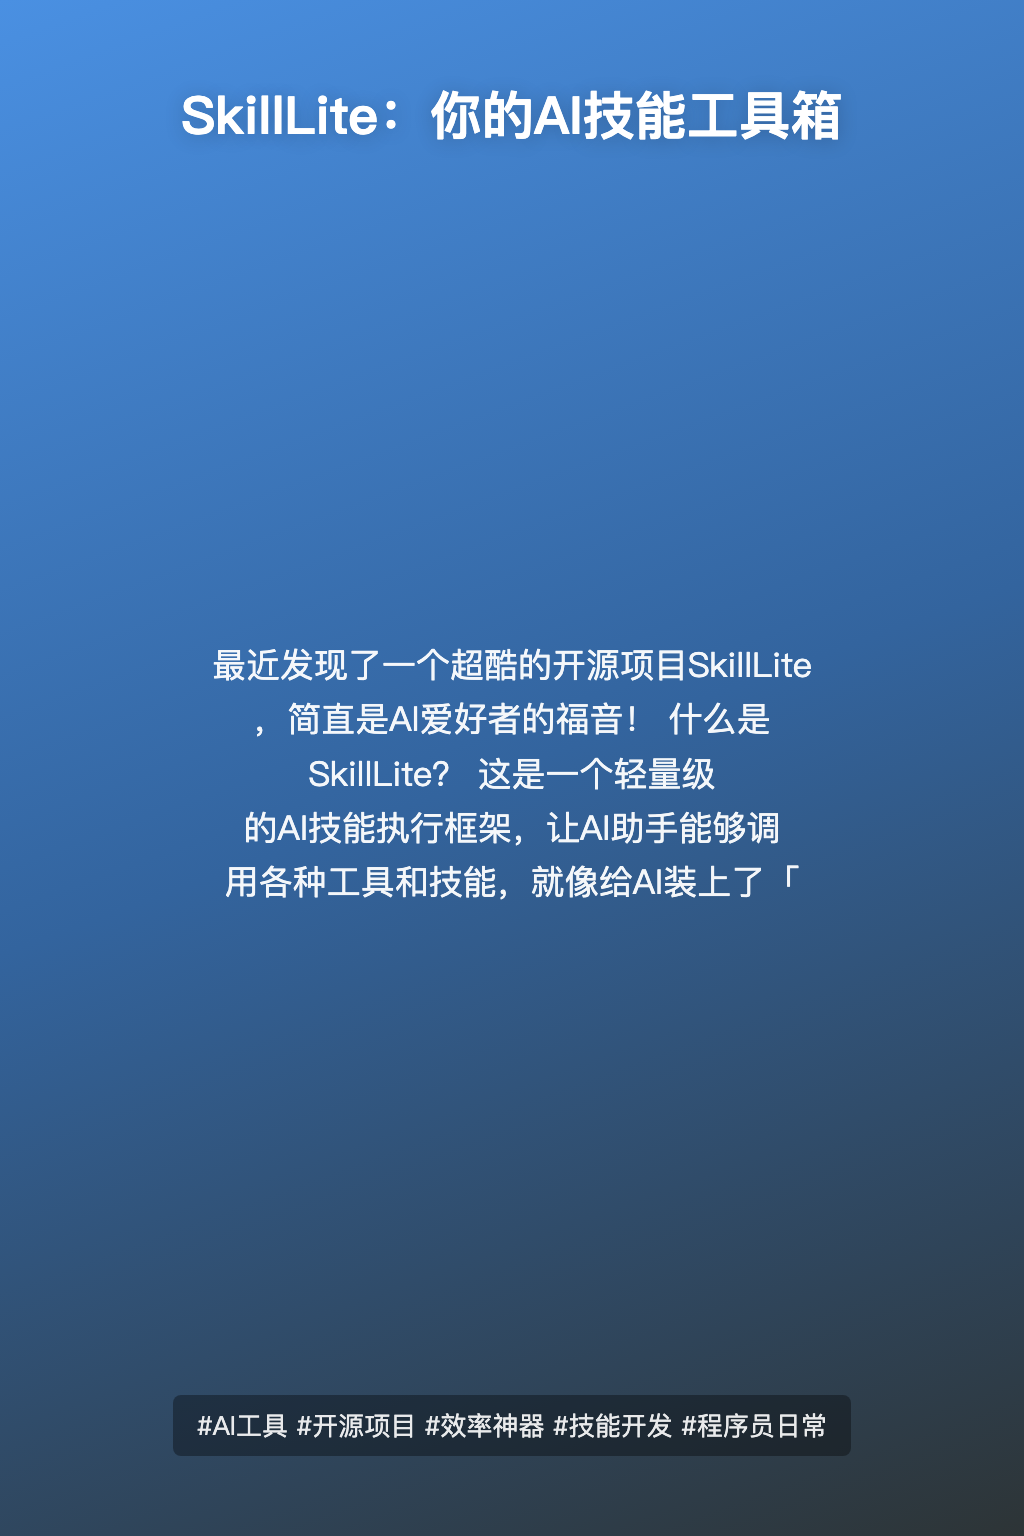
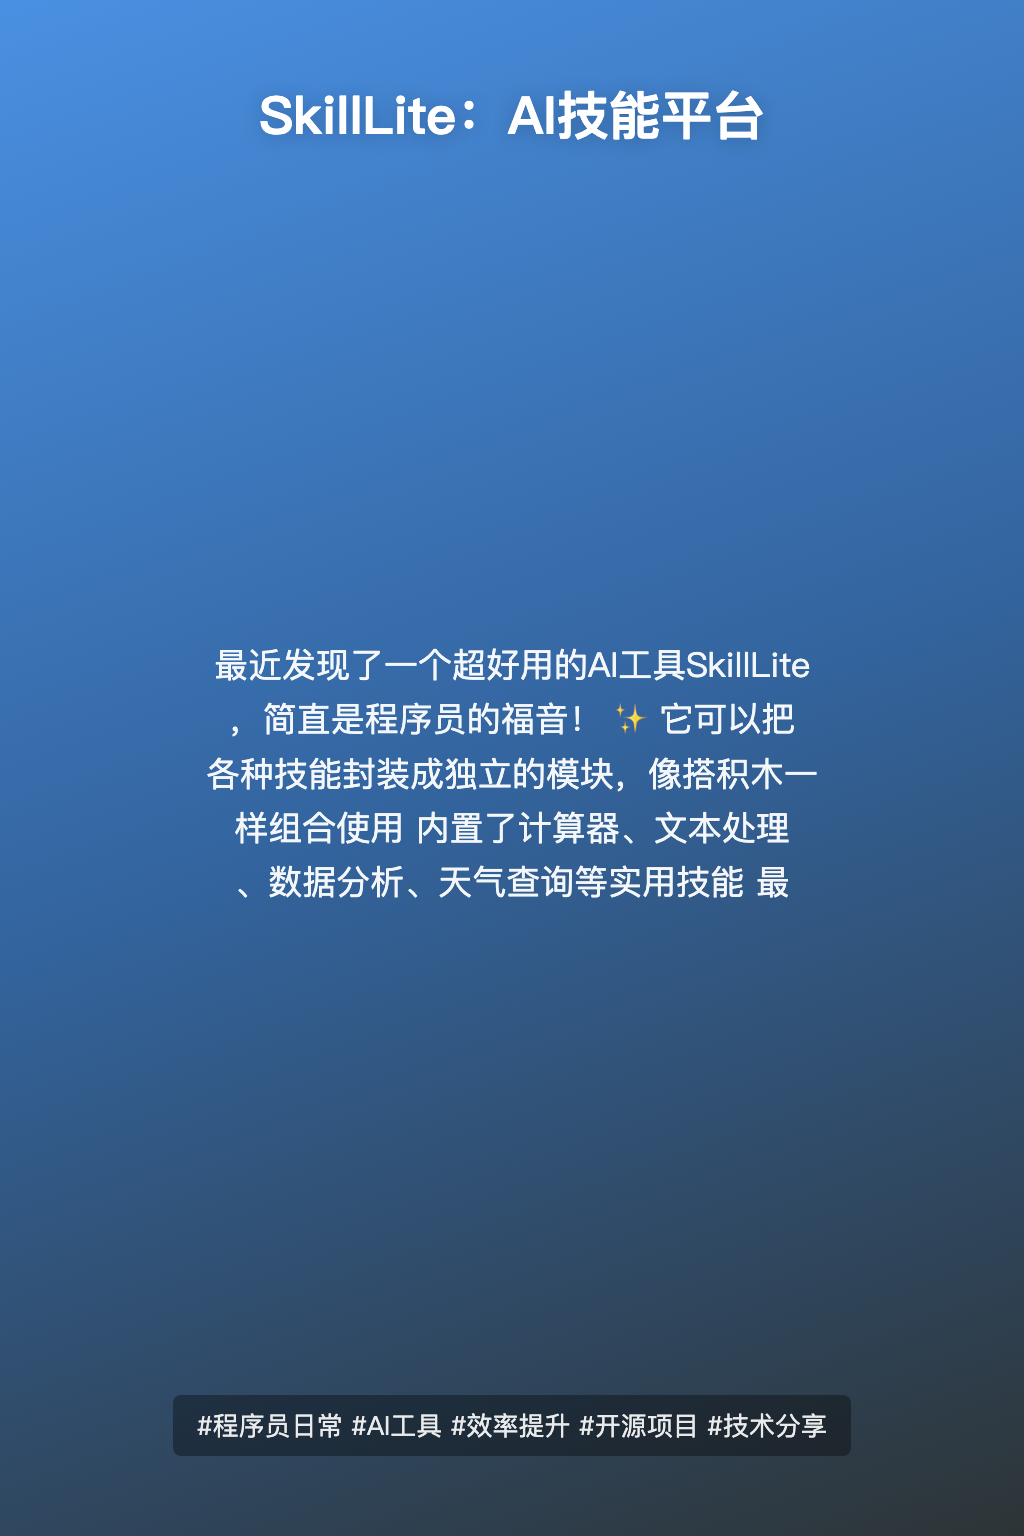
fix: Update imports in env_utils.py and init_deps.py for isolation module
- Changed imports in `env_utils.py` and `init_deps.py` to reference the new `isolation` module, improving code organization and clarity.
- Updated `xiaohongshu_thumbnail.png` to align with the latest skill requirements.

Changed region(s): [[0.1875, 0.4062, 0.7812, 0.5938], [0.1562, 0.0625, 0.8438, 0.0938], [0.2188, 0.9062, 0.8125, 0.9375]]

diff --git a/skilllite-sdk/skilllite/isolation/builder.py b/skilllite-sdk/skilllite/isolation/builder.py
@@ -1,0 +1,94 @@
+"""
+Environment builder for skill dependency isolation.
+
+Creates Python venvs and Node.js envs with package installation.
+Mirrors skillbox/src/env/builder.rs.
+"""
+
+import os
+import shutil
+import subprocess
+import sys
+from pathlib import Path
+from typing import List
+
+
+def ensure_python_env(env_path: Path, packages: List[str]) -> None:
+    """Create a Python venv and install *packages* into it."""
+    marker = env_path / ".agentskill_complete"
+    if env_path.exists() and marker.exists():
+        # Env exists, only check if playwright needs chromium
+        if "playwright" in packages:
+            ensure_playwright_chromium(env_path)
+        return  # already done
+
+    # Remove incomplete env
+    if env_path.exists():
+        shutil.rmtree(env_path)
+
+    # Create venv
+    result = subprocess.run(
+        [sys.executable, "-m", "venv", str(env_path)],
+        capture_output=True, text=True,
+    )
+    if result.returncode != 0:
+        raise RuntimeError(f"Failed to create venv: {result.stderr}")
+
+    # Install packages
+    if packages:
+        pip = env_path / ("Scripts" if os.name == "nt" else "bin") / "pip"
+        result = subprocess.run(
+            [str(pip), "install", "--quiet", "--disable-pip-version-check"] + packages,
+            capture_output=True, text=True,
+        )
+        if result.returncode != 0:
+            raise RuntimeError(f"pip install failed: {result.stderr}")
+
+    marker.write_text("")
+
+    # Playwright needs browser install
+    if "playwright" in packages:
+        ensure_playwright_chromium(env_path)
+
+
+def ensure_playwright_chromium(env_path: Path) -> None:
+    """Run playwright install chromium in the given venv."""
+    pw_marker = env_path / ".playwright_chromium_done"
+    if pw_marker.exists():
+        return
+    python_bin = env_path / ("Scripts" if os.name == "nt" else "bin") / "python"
+    result = subprocess.run(
+        [str(python_bin), "-m", "playwright", "install", "chromium"],
+        capture_output=True, text=True,
+        timeout=300,
+    )
+    if result.returncode != 0:
+        err = result.stderr or result.stdout or ""
+        raise RuntimeError(
+            f"playwright install chromium failed: {err}\n"
+            "You can run manually later: playwright install chromium"
+        )
+    pw_marker.write_text("")
+
+
+def ensure_node_env(env_path: Path, packages: List[str]) -> None:
+    """Create a Node.js environment directory and install *packages*."""
+    marker = env_path / ".agentskill_complete"
+    if env_path.exists() and marker.exists():
+        return
+
+    if env_path.exists():
+        shutil.rmtree(env_path)
+
+    env_path.mkdir(parents=True, exist_ok=True)
+
+    if packages:
+        result = subprocess.run(
+            ["npm", "install", "--silent"] + packages,
+            capture_output=True, text=True,
+            cwd=str(env_path),
+        )
+        if result.returncode != 0:
+            raise RuntimeError(f"npm install failed: {result.stderr}")
+
+    marker.write_text("")

diff --git a/skilllite-sdk/skilllite/isolation/cache.py b/skilllite-sdk/skilllite/isolation/cache.py
@@ -1,0 +1,52 @@
+"""
+Cache utilities for isolated skill environments.
+
+Provides cache directory and key computation.
+Mirrors skillbox/src/env logic.
+"""
+
+import hashlib
+import os
+import platform
+from pathlib import Path
+
+
+def get_cache_dir() -> Path:
+    """Get the environment cache directory (mirrors Rust get_cache_dir)."""
+    env_override = os.environ.get("AGENTSKILL_CACHE_DIR")
+    if env_override:
+        return Path(env_override) / "agentskill" / "envs"
+    system = platform.system()
+    if system == "Darwin":
+        base = Path.home() / "Library" / "Caches"
+    elif system == "Linux":
+        xdg = os.environ.get("XDG_CACHE_HOME")
+        base = Path(xdg) if xdg else Path.home() / ".cache"
+    else:
+        base = Path.home() / ".cache"
+    return base / "agentskill" / "envs"
+
+
+def compute_packages_hash(packages: list[str]) -> str:
+    """Compute SHA-256 hash from package list (mirrors Rust compute_packages_hash).
+
+    The list is **sorted** before hashing so that different orderings of the
+    same packages always produce the same hash.
+    """
+    h = hashlib.sha256()
+    for pkg in sorted(packages):
+        h.update(pkg.encode())
+        h.update(b"\n")
+    return h.hexdigest()
+
+
+def get_cache_key(language: str, content_hash: str) -> str:
+    """Get cache key for a dependency configuration (mirrors Rust get_cache_key).
+
+    Uses the same prefix mapping as Rust: python -> "py", node -> "node".
+    """
+    prefix_map = {"python": "py", "node": "node"}
+    prefix = prefix_map.get(language, language)
+    if not content_hash:
+        return f"{prefix}-none"
+    return f"{prefix}-{content_hash[:16]}"

diff --git a/skilllite-sdk/skilllite/isolation/__init__.py b/skilllite-sdk/skilllite/isolation/__init__.py
@@ -1,0 +1,17 @@
+"""
+Skill dependency isolation - venv creation and cache management.
+
+Provides cache path computation and environment creation (Python venv, Node.js).
+"""
+
+from .cache import get_cache_dir, get_cache_key, compute_packages_hash
+from .builder import ensure_python_env, ensure_node_env, ensure_playwright_chromium
+
+__all__ = [
+    "get_cache_dir",
+    "get_cache_key",
+    "compute_packages_hash",
+    "ensure_python_env",
+    "ensure_node_env",
+    "ensure_playwright_chromium",
+]

diff --git a/skilllite-sdk/skilllite/env_utils.py b/skilllite-sdk/skilllite/env_utils.py
@@ -26,7 +26,7 @@ def ensure_skill_python(skill_dir: Path) -> str:
     try:
         from .core.metadata import parse_skill_metadata
         from .cli.init_deps import parse_compatibility_for_packages
-        from .env import (
+        from .isolation import (
             get_cache_dir,
             get_cache_key,
             compute_packages_hash,

diff --git a/skilllite-sdk/skilllite/cli/init_deps.py b/skilllite-sdk/skilllite/cli/init_deps.py
@@ -16,7 +16,7 @@ from pathlib import Path
 from typing import Any, Dict, List, Optional
 
 from ..core.metadata import parse_skill_metadata, detect_language
-from ..env import (
+from ..isolation import (
     get_cache_dir,
     get_cache_key,
     compute_packages_hash,
